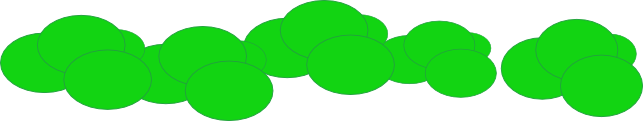
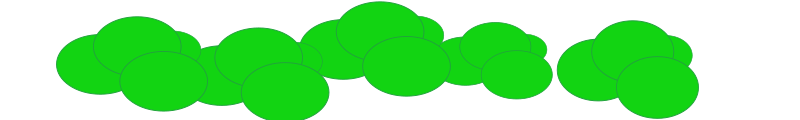
Reset background-position
this value should not grow endless

diff --git a/flappyBird/js/game.js b/flappyBird/js/game.js
@@ -146,7 +146,7 @@ function createStartOverlay() {
 
 function createBackground() {
 	background.layer.push(createElement("bg0", "bg-layer-0", config.world.width, 50, {x:0, y:config.world.height})); // ground
-	background.layer.push(createElement("bg1", "bg-layer-1", config.world.width, 40, {x:0, y:config.world.height - 40})); // hedges
+	background.layer.push(createElement("bg1", "bg-layer-1", config.world.width, 80, {x:0, y:config.world.height - 50})); // hedges
 	background.layer.push(createElement("bg2", "bg-layer-2", config.world.width, config.world.height, {x:0, y:0})); // sky and clouds
 };
 	
@@ -336,9 +336,14 @@ function checkCollision() {
 };
 
 function updateBackground() {
+	var paralaxDifference = 1;
 	for (var i = 0; i < background.layer.length; i++) {
 		var bg = background.layer[i];
-		bg.style.backgroundPosition = asPx(asNum(bg.style.backgroundPosition) - config.pipe.speed / (i+1)) + " 0";
+		if (Math.abs(asNum(bg.style.backgroundPosition)) >= config.world.width) {
+			bg.style.backgroundPosition = asPx(0) + " 0";
+		} else {
+			bg.style.backgroundPosition = asPx(asNum(bg.style.backgroundPosition) - config.pipe.speed / (i + paralaxDifference)) + " 0";
+		}
 	}
 };
 

diff --git a/flappyBird/css/flappybird.css b/flappyBird/css/flappybird.css
@@ -65,7 +65,7 @@ body {
 
 .bg-layer-1 {
 	background-image: url("../img/background-layer-1.png");
-	background-size: 300px 80px;
+	background-size: 800px 120px;
     z-index: 9;
 }
 
